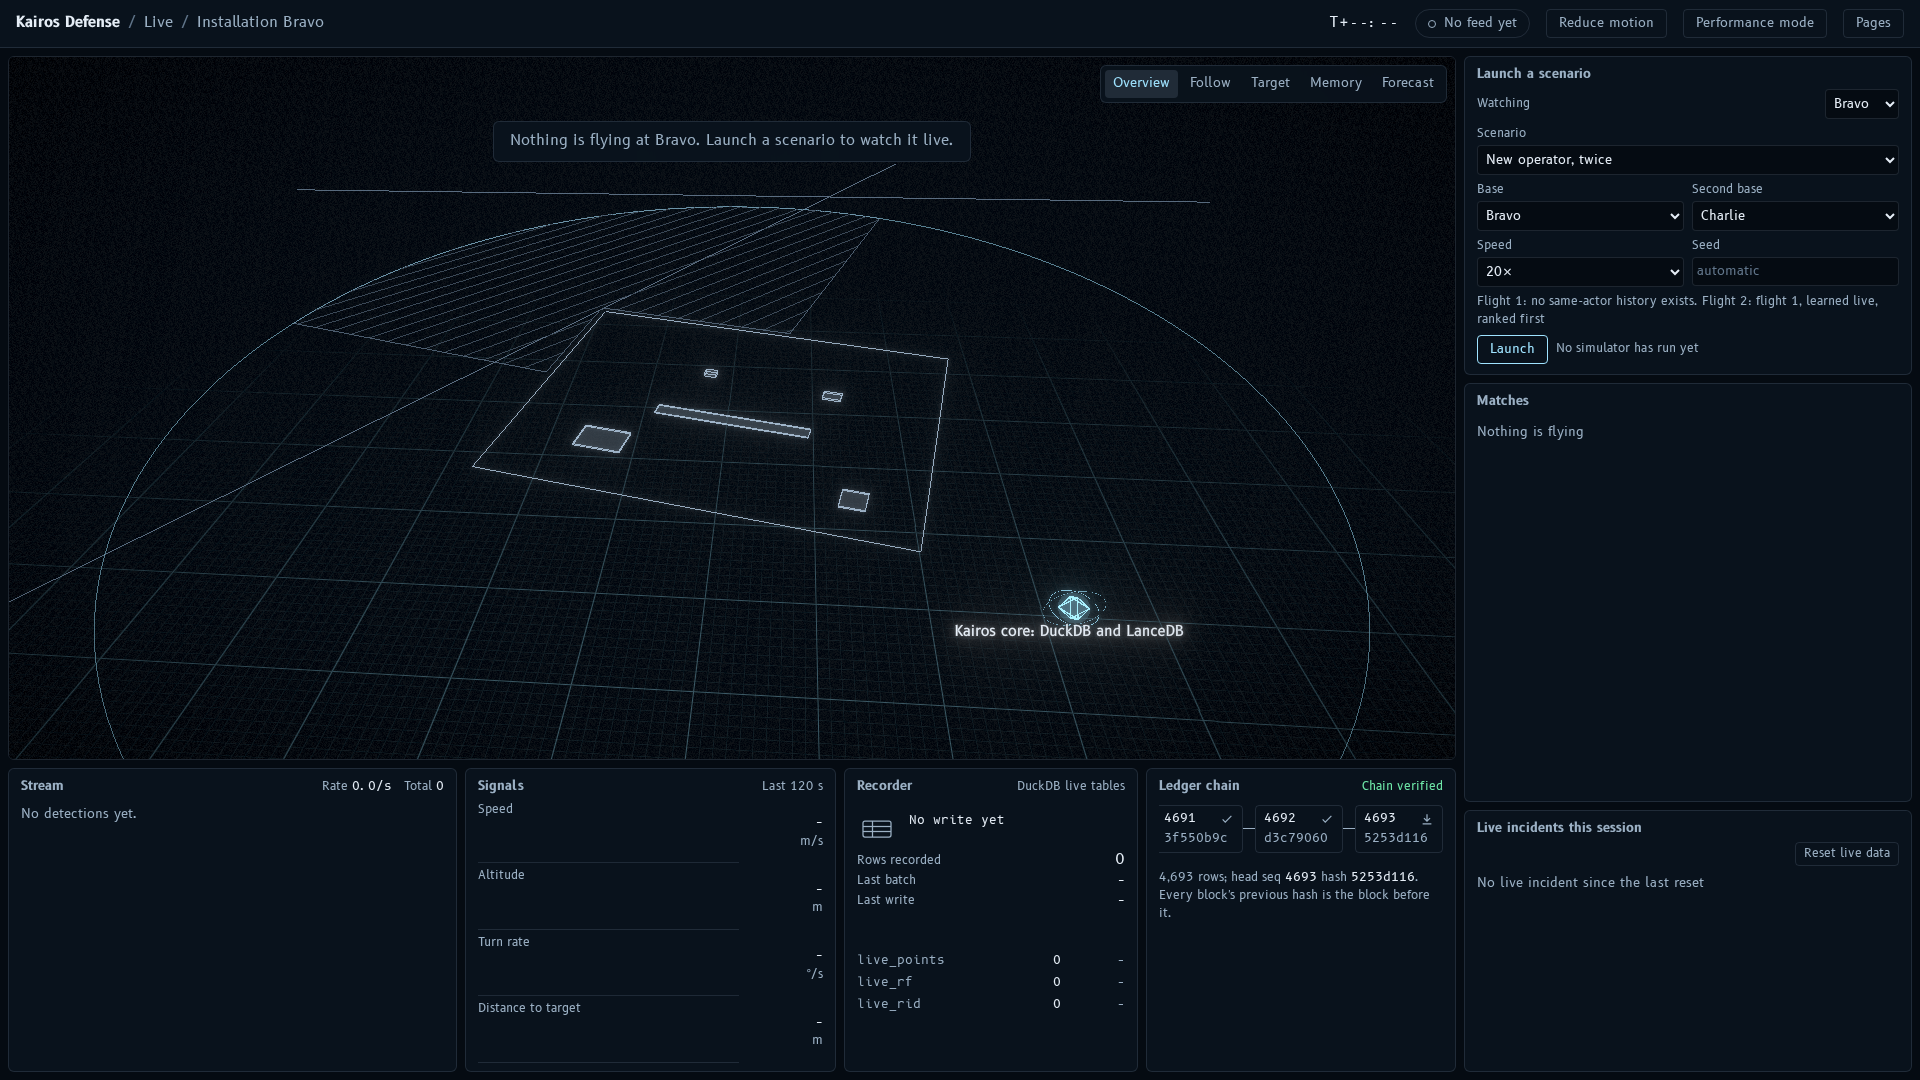
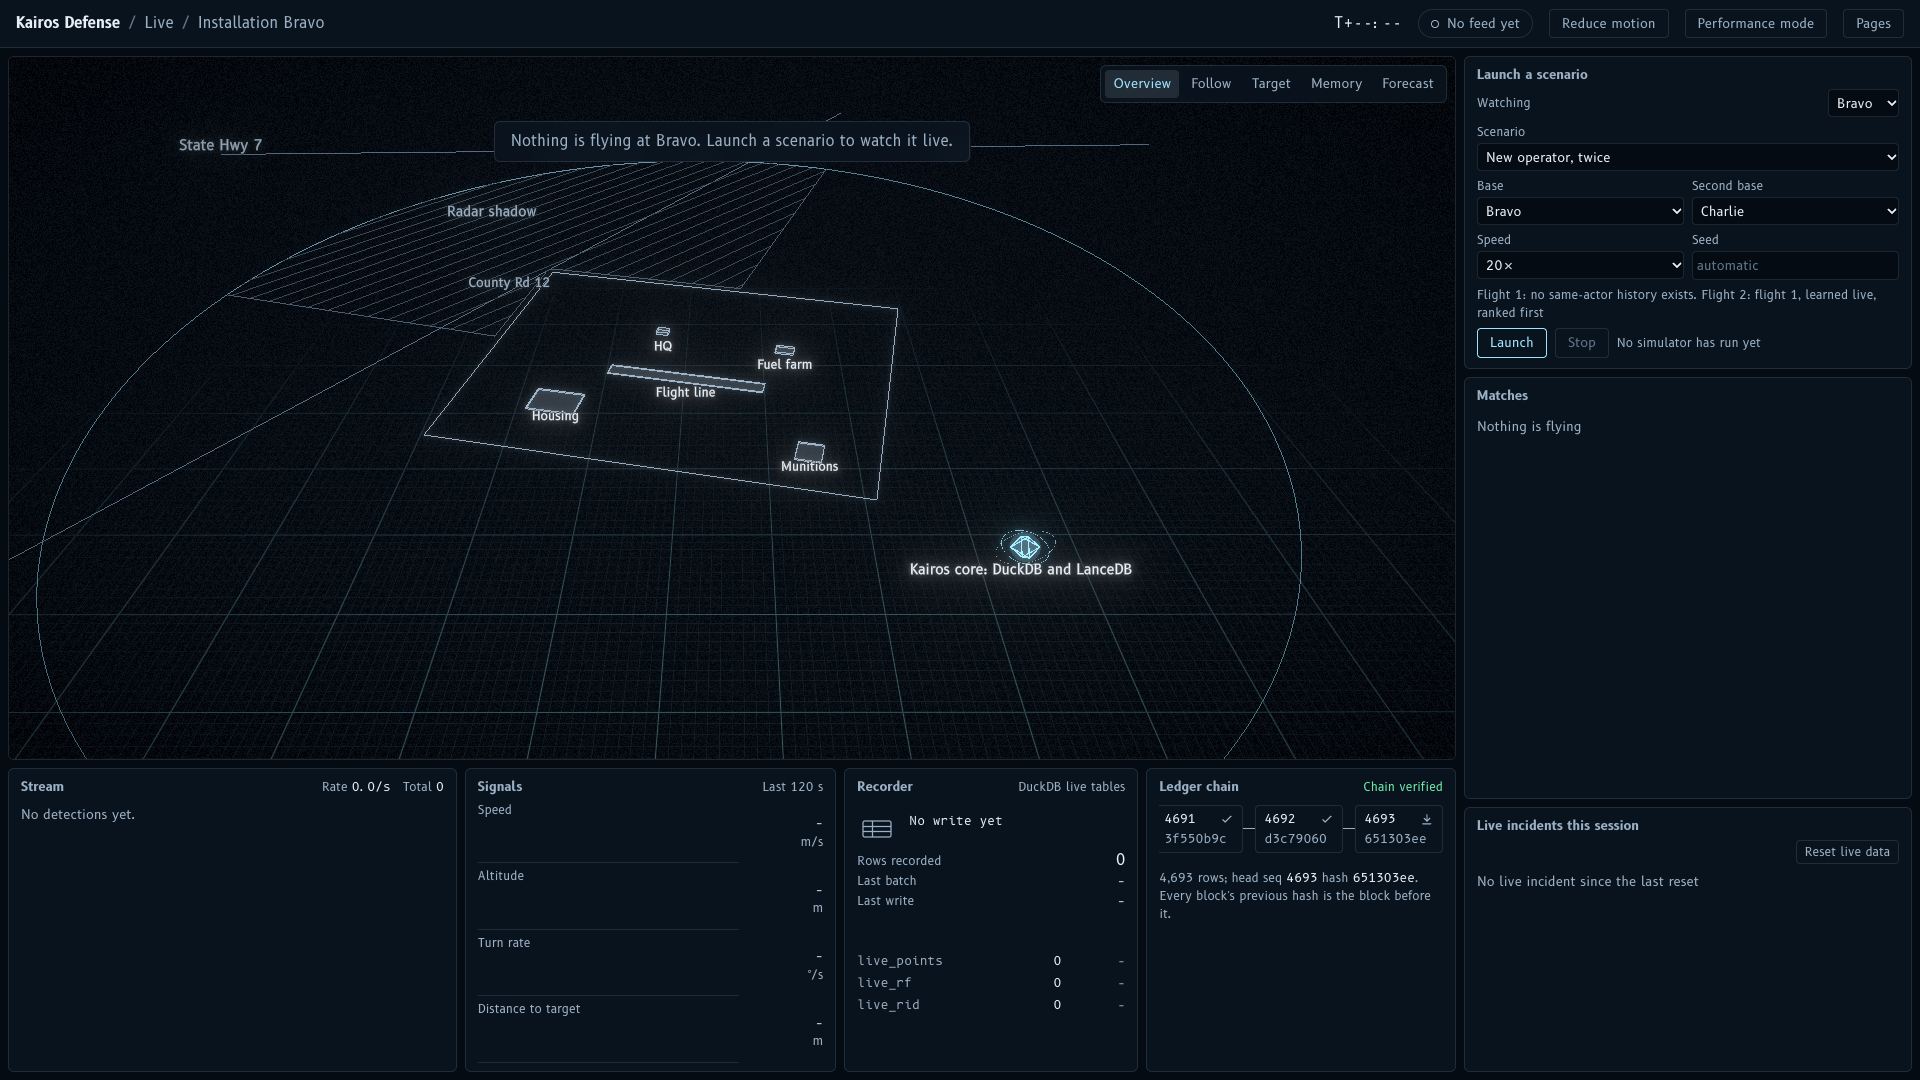
live: Stop button ends a running simulator and keeps the session's incidents (D-192)
POST /api/sim/stop stops the simulator (SIGTERM, then SIGKILL) and deletes nothing; the launcher's
exit hook closes the incidents it fed, so a flight cut short can still be revealed. The launcher
reports running from the process itself, so the UI updates the moment it stops. Tests: API (an
open incident closes and stays listed), Vitest (Stop is not Reset); verified in the browser.

Claude-Session: https://claude.ai/code/session_01Wh2C7nLvVniJeHES2fkAoQ

diff --git a/web/src/live/Launcher.tsx b/web/src/live/Launcher.tsx
@@ -12,8 +12,9 @@ import { basesFor, defaultBase, nextBase, RANDOM, simulatorLine, SPEED_CHOICES }
 const FIELD =
   "min-w-0 rounded-button border border-hairline bg-scope px-1 py-1 text-13 text-ink-hi disabled:text-ink-low";
 
-/** The scenario launcher (D-184): scenario, actor or team, base, speed, seed, Launch. The
- * simulator runs as a separate process; the app keeps the scenario, never who flies (D-182). */
+/** The scenario launcher (D-184): scenario, actor or team, base, speed, seed, Launch, and Stop
+ * (D-192: ends the simulator, keeps the session's incidents). The simulator runs as a separate
+ * process; the app keeps the scenario, never who flies (D-182). */
 export function Launcher({ installations }: { installations: string[] }) {
   const s = useThrottledStore(liveStore, (st) => ({
     scenarios: st.scenarios,
@@ -28,6 +29,7 @@ export function Launcher({ installations }: { installations: string[] }) {
   const [second, setSecond] = useState("CHARLIE");
   const [speed, setSpeed] = useState<number>(20);
   const [seed, setSeed] = useState("");
+  const [stopping, setStopping] = useState(false);
   const sc: ScenarioInfo | undefined = s.scenarios.find((x) => x.name === name);
   const bases = basesFor(sc, actor);
   const running = s.sim?.running === true;
@@ -64,6 +66,17 @@ export function Launcher({ installations }: { installations: string[] }) {
     } catch (e) {
       st.setLaunch(false, e instanceof Error ? e.message : String(e));
     }
+    await refreshStatus();
+  };
+  const stop = async () => {
+    setStopping(true);
+    try {
+      await api.simStop();
+      liveStore.getState().setLaunch(false);
+    } catch (e) {
+      liveStore.getState().setLaunch(false, e instanceof Error ? e.message : String(e));
+    }
+    setStopping(false);
     await refreshStatus();
   };
 
@@ -196,6 +209,15 @@ export function Launcher({ installations }: { installations: string[] }) {
             className="rounded-button border border-flash px-3 py-1 text-13 text-flash transition-colors duration-(--dur-micro) ease-(--ease-out) hover:bg-hairline disabled:cursor-not-allowed disabled:border-hairline disabled:text-ink-low"
           >
             Launch
+          </button>
+          <button
+            type="button"
+            onClick={() => void stop()}
+            disabled={!running || stopping}
+            title="Stop the simulator; this session's incidents are kept"
+            className="rounded-button border border-hairline px-3 py-1 text-13 text-ink-hi transition-colors duration-(--dur-micro) ease-(--ease-out) hover:bg-hairline disabled:cursor-not-allowed disabled:text-ink-low"
+          >
+            {stopping ? "Stopping" : "Stop"}
           </button>
           <span data-testid="simulator-state" className="min-w-0 truncate text-12 text-ink-mid">
             {simulatorLine(s.sim)}

diff --git a/web/tests/LiveMode.test.tsx b/web/tests/LiveMode.test.tsx
@@ -117,6 +117,49 @@ describe("Launcher", () => {
     );
     expect(screen.getByRole("button", { name: "Launch" })).toBeDisabled(); // one at a time
   });
+
+  it("stops a running simulator and keeps the session's incidents (D-192)", async () => {
+    const sim = (running: boolean) => ({
+      running,
+      scenario: "returning-prober",
+      base: "BRAVO",
+      second_base: null,
+      speed: 20,
+      seed: 7,
+      started_at: null,
+      exit_code: running ? null : -15,
+    });
+    const status = (running: boolean) => ({
+      enabled: true,
+      matching: true,
+      problems: [],
+      feeds: [],
+      incidents: [],
+      pending: 0,
+      learned_tracks: 0,
+      simulator: sim(running),
+    });
+    liveStore.getState().setStatus(status(false)); // an earlier test may leave one running
+    render(<Launcher installations={["ALPHA", "BRAVO"]} />);
+    await flush();
+    expect(screen.getByRole("button", { name: "Stop" })).toBeDisabled(); // nothing is flying
+    act(() => liveStore.getState().setStatus(status(true)));
+    await flush();
+    expect(screen.getByRole("button", { name: "Stop" })).toBeEnabled();
+    const f = routeFetch([
+      [/\/api\/sim\/stop/, () => ({ stopped: true, simulator: sim(false) })],
+      [/\/api\/live\/status/, () => status(false)],
+    ]);
+    await act(async () => {
+      fireEvent.click(screen.getByRole("button", { name: "Stop" }));
+      await new Promise((r) => setTimeout(r, 20));
+    });
+    expect(calls(f).some(([u]) => u.includes("/api/sim/stop"))).toBe(true);
+    expect(calls(f).some(([u]) => u.includes("/api/live/reset"))).toBe(false); // Stop is not Reset
+    await flush();
+    expect(screen.getByRole("button", { name: "Stop" })).toBeDisabled();
+    expect(screen.getByRole("button", { name: "Launch" })).toBeEnabled();
+  });
 });
 
 describe("IncidentList", () => {

diff --git a/web/src/api/types.gen.ts b/web/src/api/types.gen.ts
@@ -673,6 +673,28 @@ export interface paths {
     patch?: never;
     trace?: never;
   };
+  "/api/sim/stop": {
+    parameters: {
+      query?: never;
+      header?: never;
+      path?: never;
+      cookie?: never;
+    };
+    get?: never;
+    put?: never;
+    /**
+     * Sim Stop
+     * @description Stop the running simulator (SIGTERM, then SIGKILL) and keep everything live mode has
+     *     recorded (D-192). Its exit hook closes the incidents it was feeding, so they can be revealed;
+     *     the simulator wrote its ground truth before its first detection.
+     */
+    post: operations["sim_stop_api_sim_stop_post"];
+    delete?: never;
+    options?: never;
+    head?: never;
+    patch?: never;
+    trace?: never;
+  };
   "/api/live/incidents/{incident_id}/reveal": {
     parameters: {
       query?: never;
@@ -2315,6 +2337,12 @@ export interface components {
       /** Pid */
       pid: number;
     };
+    /** SimStopResponse */
+    SimStopResponse: {
+      /** Stopped */
+      stopped: boolean;
+      simulator: components["schemas"]["SimulatorState"];
+    };
     /** SimulatorState */
     SimulatorState: {
       /** Running */
@@ -3708,6 +3736,26 @@ export interface operations {
         };
         content: {
           "application/json": components["schemas"]["HTTPValidationError"];
+        };
+      };
+    };
+  };
+  sim_stop_api_sim_stop_post: {
+    parameters: {
+      query?: never;
+      header?: never;
+      path?: never;
+      cookie?: never;
+    };
+    requestBody?: never;
+    responses: {
+      /** @description Successful Response */
+      200: {
+        headers: {
+          [name: string]: unknown;
+        };
+        content: {
+          "application/json": components["schemas"]["SimStopResponse"];
         };
       };
     };

diff --git a/web/src/api/client.ts b/web/src/api/client.ts
@@ -12,6 +12,7 @@ import type {
   ScenarioInfo,
   SimLaunchRequest,
   SimLaunchResponse,
+  SimStopResponse,
   DecisionResponse,
   DtwMsg,
   EvidenceLine,
@@ -150,6 +151,7 @@ export const api = {
   liveScenarios: () => getJson<ScenarioInfo[]>("/api/live/scenarios"),
   /** Start the simulator for a scenario as a separate process (an explicit click only). */
   simLaunch: (req: SimLaunchRequest) => postJson<SimLaunchResponse>("/api/sim/launch", req),
+  simStop: () => postJson<SimStopResponse>("/api/sim/stop", {}),
   /** Remove every live-mode row (after a confirm); the history and the ledger stay. */
   liveReset: () => postJson<LiveResetResponse>("/api/live/reset", {}),
   /** Who flew a closed live incident (D-170): computed on request, never stored. */

diff --git a/web/src/api/messages.ts b/web/src/api/messages.ts
@@ -125,6 +125,7 @@ export type LiveIncidentRow = S["LiveIncidentRow"];
 export type ScenarioInfo = S["ScenarioInfo"];
 export type SimLaunchRequest = S["SimLaunchRequest"];
 export type SimLaunchResponse = S["SimLaunchResponse"];
+export type SimStopResponse = S["SimStopResponse"];
 export type LiveResetResponse = S["LiveResetResponse"];
 export type RevealResponse = S["RevealResponse"];
 export type RevealRerun = S["RevealRerun"];

diff --git a/tests/unit/test_api_live.py b/tests/unit/test_api_live.py
@@ -57,7 +57,7 @@ def flight(lclient, world, tmp_path_factory):
     return ls.build(lclient.cfg, world, clock, "returning-prober", seed=7, base="BRAVO")
 
 
-def frames(sc, frame_s=50.0):
+def frames(sc, frame_s=50.0, installation="BRAVO"):
     det = sc.detections()
     end = det[-1][0] + 32_000
     t, i = sc.start_ms, 0
@@ -67,7 +67,7 @@ def frames(sc, frame_s=50.0):
         while j < len(det) and det[j][0] <= t:
             j += 1
         yield [m for _, m in det[i:j]] + [
-            {"v": 1, "type": "heartbeat", "installation_id": "BRAVO", "ts": ls.iso_ms(t)}
+            {"v": 1, "type": "heartbeat", "installation_id": installation, "ts": ls.iso_ms(t)}
         ]
         i = j
 
@@ -194,6 +194,43 @@ def test_a_launched_child_log_never_names_the_actor(lclient, caplog) -> None:
     for word in ("P3", "Munitions figure-eight"):
         assert word not in text
     assert "--actor" not in caplog.text and "P3" not in caplog.text
+
+
+def test_stop_closes_the_incident_it_fed_and_keeps_it(lclient, world, tmp_path) -> None:
+    """D-192: Stop ends a running simulator and keeps every live row; the exit hook closes the
+    incidents it was feeding, so they stay listed (and can be revealed). Stopping twice is a
+    no-op."""
+    clock = LiveClock(tmp_path / "clock.json", lclient.cfg.world.calendar.end_local)
+    sc = ls.build(lclient.cfg, world, clock, "returning-prober", seed=8, actor="P1", base="ALPHA")
+    for frame in list(frames(sc, installation="ALPHA"))[:2]:  # the flight is still in the air
+        assert lclient.post("/api/ingest", json={"messages": frame}).json()["rejected"] == []
+    (row,) = [r for r in lclient.get("/api/live/status").json()["incidents"]
+              if r["installation_id"] == "ALPHA"]  # fmt: skip
+    assert row["state"] == "open"
+    launcher = lclient.app.state.services.live.launcher
+    before = launcher.command
+    launcher.command = lambda a: [sys.executable, "-c", "import time; time.sleep(30)"]
+    try:
+        body = {"scenario": "returning-prober", "actor": "P1", "base": "ALPHA"}
+        assert lclient.post("/api/sim/launch", json=body).status_code == 200
+        doc = lclient.post("/api/sim/stop").json()
+        assert doc["stopped"] is True and doc["simulator"]["running"] is False
+        assert doc["simulator"]["scenario"] == "returning-prober"
+        # The status the UI polls agrees at once, before the exit watcher has run (D-192).
+        assert lclient.get("/api/live/status").json()["simulator"]["running"] is False
+        deadline = time.monotonic() + 10
+        while time.monotonic() < deadline:  # the exit watcher runs on its own thread
+            rows = {
+                r["incident_id"]: r for r in lclient.get("/api/live/status").json()["incidents"]
+            }
+            if rows.get(row["incident_id"], {}).get("state") == "closed":
+                break
+            time.sleep(0.1)
+        assert rows[row["incident_id"]]["state"] == "closed"  # closed, and still listed
+        again = lclient.post("/api/sim/stop").json()
+        assert again["stopped"] is False and again["simulator"]["running"] is False
+    finally:
+        launcher.command = before
 
 
 def test_reset_through_the_api(lclient) -> None:

diff --git a/src/kairos_defense/api/routes_live.py b/src/kairos_defense/api/routes_live.py
@@ -8,6 +8,7 @@
   the ledger appends and a ``clock`` on feed time.
 - ``GET /api/live/status``, ``GET /api/live/scenarios``, ``POST /api/live/reset``,
   ``POST /api/sim/launch`` (the simulator as a separate process, one at a time),
+  ``POST /api/sim/stop`` (stops it and keeps every live row; its open incidents close, D-192),
   ``GET /api/live/incidents/{id}/reveal`` (the one route that touches ground truth, and only
   through ``kairos_defense.eval``, once the incident has closed, D-170), and
   ``GET /api/schema/live-stream``.
@@ -37,6 +38,7 @@ from kairos_defense.api.schemas_live import (
     ScenarioInfo,
     SimLaunchRequest,
     SimLaunchResponse,
+    SimStopResponse,
 )
 from kairos_defense.api.services import Services
 from kairos_defense.live.session import ledger_message
@@ -223,6 +225,16 @@ def sim_launch(req: SimLaunchRequest, request: Request, svc: Services = Svc) -> 
         raise HTTPException(409, str(exc)) from exc
     return {"launched": True, "scenario": req.scenario, "base": base or "", "second_base": second,
             "speed": float(req.speed), "seed": int(seed), "pid": int(out["pid"])}  # fmt: skip
+
+
+@router.post("/api/sim/stop", response_model=SimStopResponse)
+def sim_stop(svc: Services = Svc) -> dict:
+    """Stop the running simulator (SIGTERM, then SIGKILL) and keep everything live mode has
+    recorded (D-192). Its exit hook closes the incidents it was feeding, so they can be revealed;
+    the simulator wrote its ground truth before its first detection."""
+    live = _live(svc)
+    stopped = live.launcher.stop()
+    return {"stopped": stopped, "simulator": live.launcher.state()}
 
 
 @router.get("/api/live/incidents/{incident_id}/reveal", response_model=RevealResponse)

diff --git a/src/kairos_defense/api/launcher.py b/src/kairos_defense/api/launcher.py
@@ -63,8 +63,11 @@ class SimLauncher:
             return self._proc is not None and self._proc.poll() is None
 
     def state(self) -> dict:
+        """The last launch's state; ``running`` is read from the process itself, so it is right
+        the moment a child exits, before the exit watcher has updated the rest (D-192)."""
         with self._lock:
-            return dict(self._state)
+            alive = self._proc is not None and self._proc.poll() is None
+            return {**self._state, "running": alive}
 
     def launch(self, args: dict) -> dict:
         """Start the child; ``args``: scenario, actor, base, second_base, speed, seed, url.

diff --git a/src/kairos_defense/api/schemas_live.py b/src/kairos_defense/api/schemas_live.py
@@ -187,6 +187,11 @@ class SimLaunchResponse(Strict):
     pid: int
 
 
+class SimStopResponse(Strict):
+    stopped: bool  # False when no simulator was running
+    simulator: SimulatorState
+
+
 class LiveResetResponse(Strict):
     reset: dict[str, int]
     vectors: int

diff --git a/docs/DECISIONS.md b/docs/DECISIONS.md
@@ -2687,3 +2687,15 @@ Where this file and the SPEC ever disagree, this file wins.
   fades (the floor keeps a radar dropout from bringing the fade back mid-flight, which the
   second guide run showed). Every row and number stays; the replay at 1×, 2× and 5× is
   unchanged.
+
+## D-192 · Stop a running simulator without resetting live data · 2026-11-03
+- Context: the only way to end a running scenario early was Reset live data, which also deletes the
+  session's live incidents, so a flight cut short could not be revealed. The user asked for a Stop.
+- Decision: `POST /api/sim/stop` stops the simulator process (SIGTERM, then SIGKILL after 5 s) and
+  returns `{stopped, simulator}`; nothing live is deleted. The launcher's existing exit hook
+  (`hub.flush`) moves feed time past the idle limit at the bases it fed, so their open incidents
+  close and are learned as usual. A **Stop** button next to Launch calls it while a simulator runs.
+- Why: the pieces already existed (`SimLauncher.stop`, the exit hook); the simulator writes its
+  ground truth before its first detection, so a stopped flight can still be revealed.
+- Consequences: a stopped flight is shorter than its scenario intends, so its reveal verdict may say
+  the expectation was not met; that is the honest result for a partial flight.

diff --git a/docs/USER_GUIDE.md b/docs/USER_GUIDE.md
@@ -804,6 +804,9 @@ metric worsens by more than 5% (latency by more than 50%) or a demo assertion fa
 
 ## 12. Glossary
 
+Military, security and counter-drone terms (recovery zone, BDOC, source grades, egress …) are in
+the [glossary of military and security terms](GLOSSARY.md). The technical terms are below.
+
 | Term | Meaning |
 |---|---|
 | Afterglow | The amber color of memory: past flights, matches and history |
@@ -886,6 +889,9 @@ What you see as the flight comes in:
 - When the feed has been quiet for 30 seconds of feed time, the incident **closes**: its remaining
   reruns run, its flights are learned (they appear in later matches as `LIVE-…` flights with their
   own ghosts), and **Reveal who flew** appears on its row.
+- **Stop** (next to Launch, while a simulator runs) ends the flight early and keeps everything:
+  the incident closes at once (its last reruns run and it is learned), and **Reveal who flew** works
+  on it as on any closed incident. Use it to cut a scenario short without losing it.
 - **Reset live data** (in Incidents, behind a confirm) removes every live incident, detection and
   learned flight and stops the simulator. The history and the case memory stay.
 

diff --git a/src/kairos_defense/api/README.md b/src/kairos_defense/api/README.md
@@ -93,7 +93,9 @@ origin.
     `learned_tracks`, the simulator without the actor), `GET /api/live/scenarios`
     (`ScenarioInfo` list), `POST /api/live/reset` (`LiveResetResponse`; stops a running simulator),
     `POST /api/sim/launch` (`SimLaunchRequest` → `SimLaunchResponse`; 409 while one runs, 422 for a
-    bad scenario, actor, base or speed), `GET /api/live/incidents/{id}/reveal` (`RevealResponse`
+    bad scenario, actor, base or speed), `POST /api/sim/stop` (`SimStopResponse`: `stopped` and the
+    simulator state; keeps every live row, and the launcher's exit hook closes the incidents it fed,
+    D-192), `GET /api/live/incidents/{id}/reveal` (`RevealResponse`
     through `kairos_defense.eval.reveal`; 404 unknown, 409 until closed; never stored, D-170),
     `GET /api/live/trace?installation=` (`MatcherTraceMsg`: the latest fresh live rerun's trace;
     404 before any, D-188), `GET /api/schema/live-stream`.
